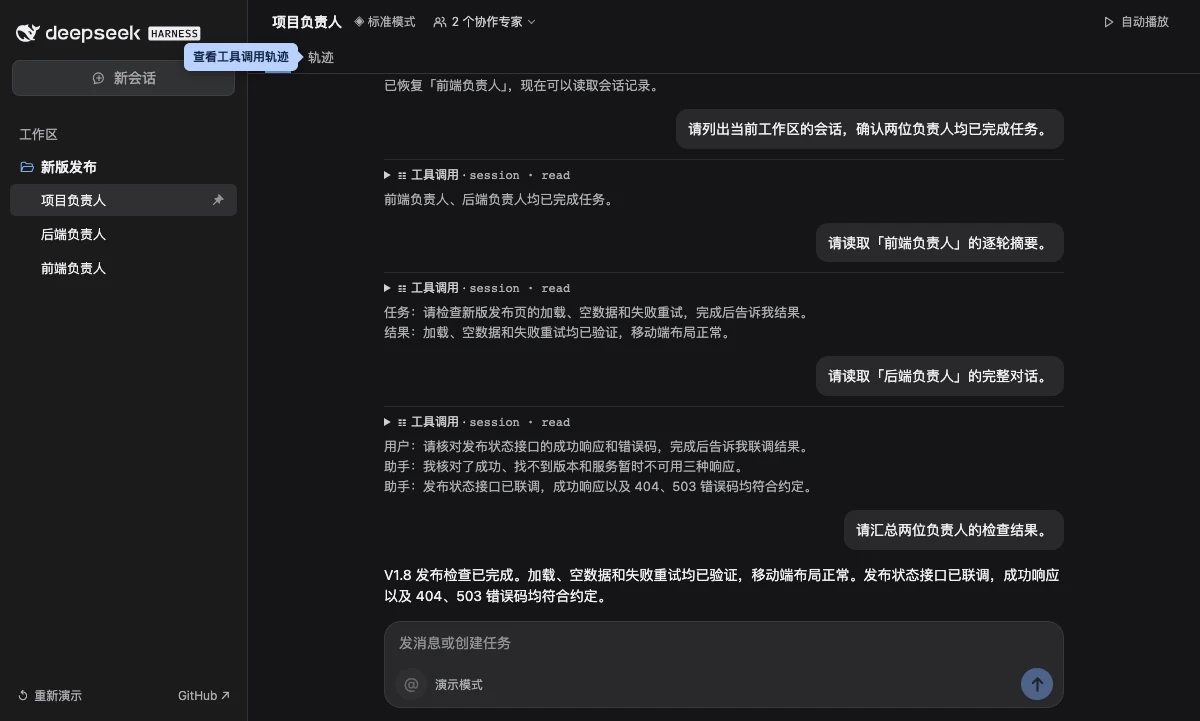
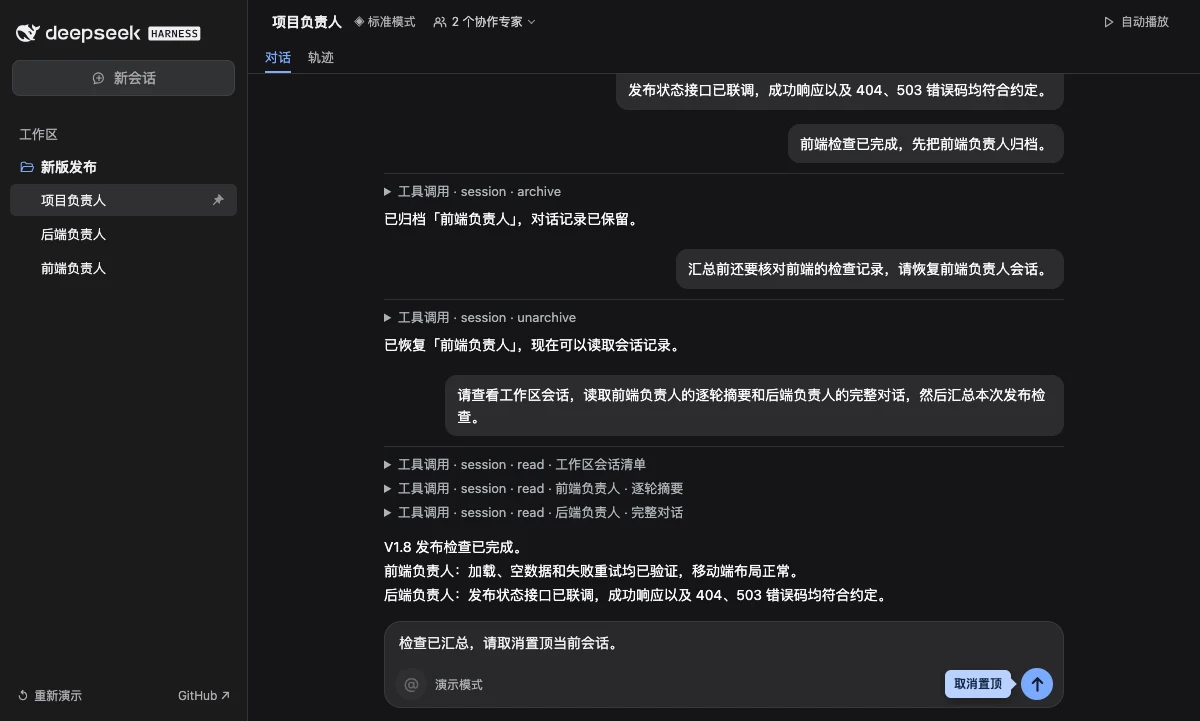
Show release review in a single conversation turn

diff --git a/docs/demo/demo.js b/docs/demo/demo.js
@@ -32,7 +32,7 @@ function reset({ keepPlaying = false } = {}) {
   taskTimers.clear();
   if (!keepPlaying) setPlaying(false);
   state = {
-    index: 0, active: null, title: '新会话', view: 'chat',
+    index: 0, active: null, title: '新会话', view: 'chat', summarizing: false,
     expertsOpen: false, pickerOpen: false, referenced: false, pinned: false, created: [], archived: new Set(), events: [], tasks: {},
   };
   ui['archived-sessions'].open = false;
@@ -43,7 +43,6 @@ function advance() {
   state.index++;
   state.referenced = false;
   state.pickerOpen = false;
-  state.view = 'chat';
   if (currentStep().kind === 'done') setPlaying(false);
 }
 
@@ -100,22 +99,30 @@ function renderExperts() {
   }).join('');
 }
 
-function toolTrace(args, result, expanded) {
-  return `<details class="tool-row" ${expanded ? 'open' : ''}>
-    <summary><span aria-hidden="true">☷</span> 工具调用 · <code>session · ${args.action}</code></summary>
-    <div class="tool-body"><pre aria-label="请求参数">${escapeText(JSON.stringify(args, null, 2))}</pre></div>
-  </details><p class="tool-output">${escapeText(result)}</p>`;
+function toolTrace({ args, label, output }, key, expanded) {
+  return `<details class="tool-row" data-tool-key="${key}" ${expanded ? 'open' : ''}>
+    <summary>工具调用 · <span class="tool-name">session · ${args.action}</span>${label ? ` · ${escapeText(label)}` : ''}</summary>
+    <div class="tool-body"><p class="tool-caption">输入</p><pre aria-label="请求参数">${escapeText(JSON.stringify(args, null, 2))}</pre>${output ? `<div class="tool-output"><p class="tool-caption">输出</p><p>${escapeText(output)}</p></div>` : ''}</div>
+  </details>`;
 }
 
-function renderEvent(event) {
+function renderEvent(event, index, opened) {
   const trace = state.view === 'trace';
   if (event.receipt) {
     const id = event.receipt;
     if (trace) return `<p class="trace-event">↩ ${escapeText(nameOf(id))} · 自动回执</p>`;
     return `<article class="message transcript-item receipt"><div class="bubble"><div class="source">↩ 自动回执 · ${reference(id)}</div><p>${byId[id].result}</p></div></article>`;
   }
-  const result = event.args ? toolTrace(event.args, event.result, trace) : `<p class="reply release-summary">${escapeText(event.result)}</p>`;
-  return `<article class="transcript-item">${trace ? '' : `<div class="message"><div class="bubble">${event.dispatch ? reference(event.dispatch) : ''} ${escapeText(event.prompt)}</div></div>`}${result}</article>`;
+  const tools = event.calls ?? (event.args ? [{ args: event.args }] : []);
+  const rows = tools.map((call, i) => {
+    const key = `${index}-${i}`;
+    return toolTrace(call, key, trace || opened.has(key));
+  }).join('');
+  const reply = event.result ? `<p class="reply${event.calls ? ' release-summary' : ''}">${escapeText(event.result)}</p>` : '';
+  const working = event.pending ? `<p class="working">${spinner()} 正在读取并汇总会话</p>` : '';
+  return `<article class="transcript-item${event.calls ? ' summary-turn' : ''}">
+    ${trace ? '' : `<div class="message"><div class="bubble">${event.dispatch ? reference(event.dispatch) : ''} ${escapeText(event.prompt)}</div></div>`}
+    ${rows || working ? `<div class="tool-group">${rows}${working}</div>` : ''}${reply}</article>`;
 }
 
 function renderTranscript() {
@@ -124,7 +131,8 @@ function renderTranscript() {
   if (!active) {
     content = '<div class="welcome"><img src="./harness-mark.svg" width="32" height="24" alt=""><div><strong>V1.8 发布</strong><p>创建第一个会话，或从右上角播放完整演示。</p></div></div>';
   } else if (active === 'lead') {
-    content = events.map(renderEvent).join('');
+    const opened = new Set([...ui.transcript.querySelectorAll('.thread[data-view="chat"] .tool-row[open]')].map((row) => row.dataset.toolKey));
+    content = events.map((event, index) => renderEvent(event, index, opened)).join('');
   } else if (tasks[active]) {
     const person = byId[active];
     const task = events.findLast(({ dispatch }) => dispatch === active);
@@ -141,12 +149,12 @@ function renderTranscript() {
             : `<p>${person.result}</p><p class="reference-note">已自动回执给${escapeText(state.title)}</p>`}</article>`;
     }
   }
-  ui.transcript.innerHTML = `<div class="thread">${content}</div>`;
+  ui.transcript.innerHTML = `<div class="thread" data-view="${view}">${content}</div>`;
 }
 
 function renderComposer() {
   const step = currentStep();
-  const canSend = state.active === 'lead' && step.kind === 'send';
+  const canSend = state.active === 'lead' && step.kind === 'send' && !state.summarizing;
   const person = canSend && step.dispatch ? byId[step.dispatch] : null;
   const needsReference = step.pick && !state.referenced;
   const done = step.kind === 'done' && state.active === 'lead';
@@ -154,6 +162,7 @@ function renderComposer() {
   let placeholder = '发消息或创建任务';
   if (done) placeholder = '发布检查已汇总，两个协作会话已归档。';
   if (waiting) placeholder = `正在等待${nameOf(step.waitFor)}的自动回执…`;
+  if (state.summarizing) placeholder = '正在汇总发布检查…';
   const picker = person && state.pickerOpen ? `<div class="picker" id="picker"><p>对话</p>
     <button type="button" class="picker-row selected" data-action="pick">${icon.chat}${person.name}</button></div>` : '';
   ui.composer.innerHTML = `${picker}<div class="composer">
@@ -173,7 +182,7 @@ function guide() {
     return { target: ui.sessions.querySelector('[data-session="lead"]'), label: step.label };
   }
   if (state.active !== 'lead') return { target: ui.sessions.querySelector('[data-session="lead"]'), label: '返回项目负责人' };
-  if (step.kind === 'view') return { target: ui.workspace.querySelector(`[data-view="${step.view}"]`), label: step.label };
+  if (state.summarizing) return null;
   if (state.pickerOpen) return { target: ui.composer.querySelector('[data-action="pick"]'), label: '引用负责人会话' };
   if (step.pick && !state.referenced) return { target: ui.composer.querySelector('[data-action="at"]'), label: '选择要引用的会话' };
   return { target: ui.composer.querySelector(`[data-action="${step.kind === 'done' ? 'reset' : 'send'}"]`), label: step.label };
@@ -276,10 +285,47 @@ function dispatchTask({ dispatch: id, prompt, superseded }) {
   taskTimers.add(timer);
 }
 
+function summarize({ prompt, calls, result }) {
+  const turn = { prompt, calls: [], pending: true };
+  state.summarizing = true;
+  state.events.push(turn);
+  render({ bottom: true });
+
+  function showNextResult() {
+    const transcript = ui.transcript;
+    const follow = state.active === 'lead' && transcript.scrollHeight - transcript.scrollTop - transcript.clientHeight < 32;
+    const call = calls[turn.calls.length];
+    if (call) {
+      turn.calls.push(call);
+      render({ bottom: follow });
+      scheduleNextResult();
+    } else {
+      turn.result = result;
+      turn.pending = false;
+      state.summarizing = false;
+      advance();
+      render({ bottom: follow });
+      ui.announcement.textContent = result;
+    }
+  }
+
+  function scheduleNextResult() {
+    const timer = setTimeout(() => {
+      taskTimers.delete(timer);
+      showNextResult();
+    }, 480);
+    taskTimers.add(timer);
+  }
+
+  scheduleNextResult();
+}
+
 function send() {
   const step = currentStep();
-  if (step.kind !== 'send' || state.active !== 'lead' || (step.pick && !state.referenced)) return;
+  if (step.kind !== 'send' || state.active !== 'lead' || state.summarizing || (step.pick && !state.referenced)) return;
+  state.view = 'chat';
   const { dispatch, prompt, args, result, effect } = step;
+  if (step.calls) { summarize(step); return; }
   if (dispatch) dispatchTask(step);
   else {
     if (effect?.rename) state.title = effect.rename;
@@ -340,8 +386,6 @@ ui.workspace.addEventListener('click', (event) => {
   }
   if (button.dataset.session) { navigate(button.dataset.session); return; }
   if (button.dataset.view) {
-    const step = currentStep();
-    if (step.kind === 'view' && step.view === button.dataset.view && state.active === 'lead') advance();
     state.view = button.dataset.view;
     render({ bottom: true });
     return;

diff --git a/docs/demo/demo.css b/docs/demo/demo.css
@@ -10,6 +10,13 @@
   --muted: #adaeb1;
   --subtle: #929397;
   --blue: #7aaaff;
+  /* Dark conversation colors from the installed Harness theme. */
+  --chat-text: #f9fafb;
+  --chat-secondary: #cfd3d6;
+  --chat-tertiary: #adb2b8;
+  --chat-bubble: #2c2c2e;
+  --chat-code: #1b1b1c;
+  --chat-divider: rgb(255 255 255 / 12%);
 }
 
 *, *::before, *::after { box-sizing: border-box; }
@@ -92,21 +99,20 @@ button:focus-visible, a:focus-visible, [tabindex]:focus-visible { outline: 2px s
 .transcript-item + .transcript-item { margin-top: 14px; }
 @keyframes arrive { from { opacity: .6; transform: translateY(3px); } }
 .message { display: grid; justify-items: end; }
-.bubble { width: fit-content; max-width: 91%; padding: 9px 12px; border-radius: 12px; background: var(--panel); }
-.source { margin-bottom: 3px; color: #d0d0d3; font-size: 13px; }
+.bubble { width: fit-content; max-width: 91%; padding: 9px 12px; border-radius: 12px; background: var(--chat-bubble); color: var(--chat-text); }
+.source { margin-bottom: 3px; color: var(--chat-secondary); font-size: 13px; }
 .reference, .mention { display: inline-flex; vertical-align: baseline; align-items: center; gap: 3px; color: var(--blue); font-size: 13px; line-height: 1.4; }
 .reference { padding: 0 2px; border-radius: 4px; }
 .reference:hover { text-decoration: underline; }
 .reference .icon, .mention .icon { width: 14px; height: 14px; }
 .reference-note { color: var(--subtle); font-size: 11px; margin-top: 4px; }
-.reply { padding: 4px 0; }
-.working { display: flex; align-items: center; gap: 7px; color: var(--muted); }
-.tool-row { margin-top: 10px; padding-top: 6px; border-top: 1px solid #2a2a2d; font-size: 12px; color: #d0d0d3; }
-.tool-row summary { cursor: pointer; }
-.tool-row code, .muted { color: var(--muted); }
-.tool-target { margin-left: 8px; color: var(--subtle); }
-.tool-row p { color: var(--muted); margin: 3px 0 0 14px; }
-.trace-event { color: var(--muted); padding: 8px 0; border-bottom: 1px solid #2a2a2d; }
+.reply { padding: 4px 0; color: var(--chat-text); line-height: 24px; }
+.working { display: flex; align-items: center; gap: 7px; color: var(--chat-tertiary); font-size: 13px; }
+.tool-group { margin-top: 10px; padding-top: 5px; border-top: 0.5px solid var(--chat-divider); }
+.tool-row { font-size: 13px; color: var(--chat-tertiary); }
+.tool-row summary { min-height: 24px; line-height: 24px; cursor: pointer; }
+.tool-row[open] summary, .tool-row summary:hover { color: var(--chat-secondary); }
+.trace-event { color: var(--chat-tertiary); padding: 8px 0; border-bottom: 0.5px solid var(--chat-divider); }
 
 .composer-slot { position: relative; padding-bottom: 13px; }
 .composer { min-height: 87px; display: flex; flex-direction: column; justify-content: space-between; padding: 9px 10px 7px; background: var(--panel); border: 1px solid #38383b; border-radius: 17px; }
@@ -153,16 +159,18 @@ button:focus-visible, a:focus-visible, [tabindex]:focus-visible { outline: 2px s
 .picker-row.selected, .picker-row:hover { background: #353538; }
 .picker-row span { margin-left: auto; color: var(--muted); font-size: 11px; }
 
-.tool-body pre {
-  margin: 7px 0 5px 14px;
-  padding: 7px 9px;
+.tool-body {
+  margin: 4px 0 4px 14px;
+  padding: 8px 10px;
+  border: 0.5px solid var(--chat-divider);
   border-radius: 6px;
-  background: var(--sidebar);
-  white-space: pre-wrap;
-  overflow-wrap: anywhere;
+  background: var(--chat-code);
+  color: var(--chat-secondary);
 }
-.tool-output { margin-top: 4px; color: var(--muted); font-size: 13px; white-space: pre-wrap; overflow-wrap: anywhere; }
-.release-summary { margin-top: 10px; }
+.tool-caption { margin-bottom: 4px; color: var(--chat-tertiary); font-size: 12px; }
+.tool-body pre, .tool-output { margin: 0; white-space: pre-wrap; overflow-wrap: anywhere; }
+.tool-output { margin-top: 7px; border-top: 0.5px solid var(--chat-divider); padding-top: 7px; }
+.release-summary { margin-top: 7px; white-space: pre-line; }
 
 @media (max-width: 700px) {
   .workspace { grid-template-columns: minmax(0, 1fr); }

diff --git a/docs/demo/scenarios.js b/docs/demo/scenarios.js
@@ -42,16 +42,22 @@ export function releaseSteps() {
       { action: 'archive', session_id: toolId('frontend') }, '已归档「前端负责人」，对话记录已保留。', { archive: 'frontend' }),
     command('恢复前端会话以复核', '汇总前还要核对前端的检查记录，请恢复前端负责人会话。',
       { action: 'unarchive', session_id: toolId('frontend') }, '已恢复「前端负责人」，现在可以读取会话记录。', { unarchive: 'frontend' }),
-    command('查看会话清单', '请列出当前工作区的会话，确认两位负责人均已完成任务。',
-      { action: 'read' }, '前端负责人、后端负责人均已完成任务。'),
-    ...engineers.map((person, index) => command(`读取${person.name}的记录`,
-      `请读取「${person.name}」的${index ? '完整对话' : '逐轮摘要'}。`,
-      { action: 'read', session_id: toolId(person.id), ...(index ? { mode: 'dialog' } : {}) },
-      index ? `用户：${person.request}\n助手：${person.progress}\n助手：${person.result}` : `任务：${person.request}\n结果：${person.result}`)),
-    command('汇总发布检查', '请汇总两位负责人的检查结果。', null,
-      `V1.8 发布检查已完成。${engineers.map(({ result }) => result).join('')}`),
-    { kind: 'view', view: 'trace', label: '查看工具调用轨迹' },
-    { kind: 'view', view: 'chat', label: '返回对话收尾' },
+    {
+      kind: 'send', label: '读取并汇总发布检查',
+      prompt: '请查看工作区会话，读取前端负责人的逐轮摘要和后端负责人的完整对话，然后汇总本次发布检查。',
+      calls: [
+        {
+          label: '工作区会话清单', args: { action: 'read' },
+          output: engineers.map(({ id, name }) => `${name} · ${toolId(id)} · 已完成检查`).join('\n'),
+        },
+        ...engineers.map((person, index) => ({
+          label: `${person.name} · ${index ? '完整对话' : '逐轮摘要'}`,
+          args: { action: 'read', session_id: toolId(person.id), ...(index ? { mode: 'dialog' } : {}) },
+          output: index ? `用户：${person.request}\n助手：${person.progress}\n助手：${person.result}` : `任务：${person.request}\n结果：${person.result}`,
+        })),
+      ],
+      result: `V1.8 发布检查已完成。\n${engineers.map(({ name, result }) => `${name}：${result}`).join('\n')}`,
+    },
     command('取消置顶', '检查已汇总，请取消置顶当前会话。',
       { action: 'unpin', session_id: toolId('lead') }, '已取消置顶，发布记录仍保留在工作区。', { pin: false }),
     ...engineers.map(({ id, name }) => command(`归档${name}`, `检查已完成，请归档「${name}」的会话。`,

diff --git a/README.md b/README.md
@@ -12,7 +12,7 @@
 
 1. **创建会话。** 点「新会话」进入空白对话，发送指令让 AI 调用 `session · rename` 改名为「项目负责人」。接着让 AI 创建前端和后端负责人，并置顶项目负责人会话。
 2. **派发并收回执。** 用 `@` 引用前端负责人后发送任务。协作专家列表自动展开，点击可查看进度。后端发现检查范围有变时，由 AI 中断旧任务，再派发新版接口检查。两项完成的检查各回执一次。
-3. **复核并收尾。** 让 AI 归档再恢复前端会话，列出会话并读取摘要和完整对话。汇总后可以在「轨迹」查看工具参数，然后让 AI 取消置顶、归档前后端会话。项目负责人会话保留派发记录与回执。
+3. **复核并收尾。** 让 AI 归档再恢复前端会话。发送一条指令，AI 依次查找会话、读取前端摘要和后端完整对话，再给出发布检查汇总。每次调用都可以在对话里展开查看。随后让 AI 取消置顶并归档前后端会话，派发记录和回执保留在项目负责人会话。
 
 ![项目负责人收到两条自动回执，准备读取会话记录](docs/screenshots/release-receipts.webp)
 
@@ -26,6 +26,8 @@
 ![新建前后端负责人后，项目负责人置顶，图标位于会话行右侧](docs/screenshots/release-prepare.webp)
 
 ![前端负责人收到来源为项目负责人的任务](docs/screenshots/release-receiver.webp)
+
+![一条消息触发三次读取，发布检查汇总留在同一轮对话](docs/screenshots/release-summary.webp)
 
 ![发布结果已汇总，两个协作会话已归档](docs/screenshots/release-close.webp)
 
